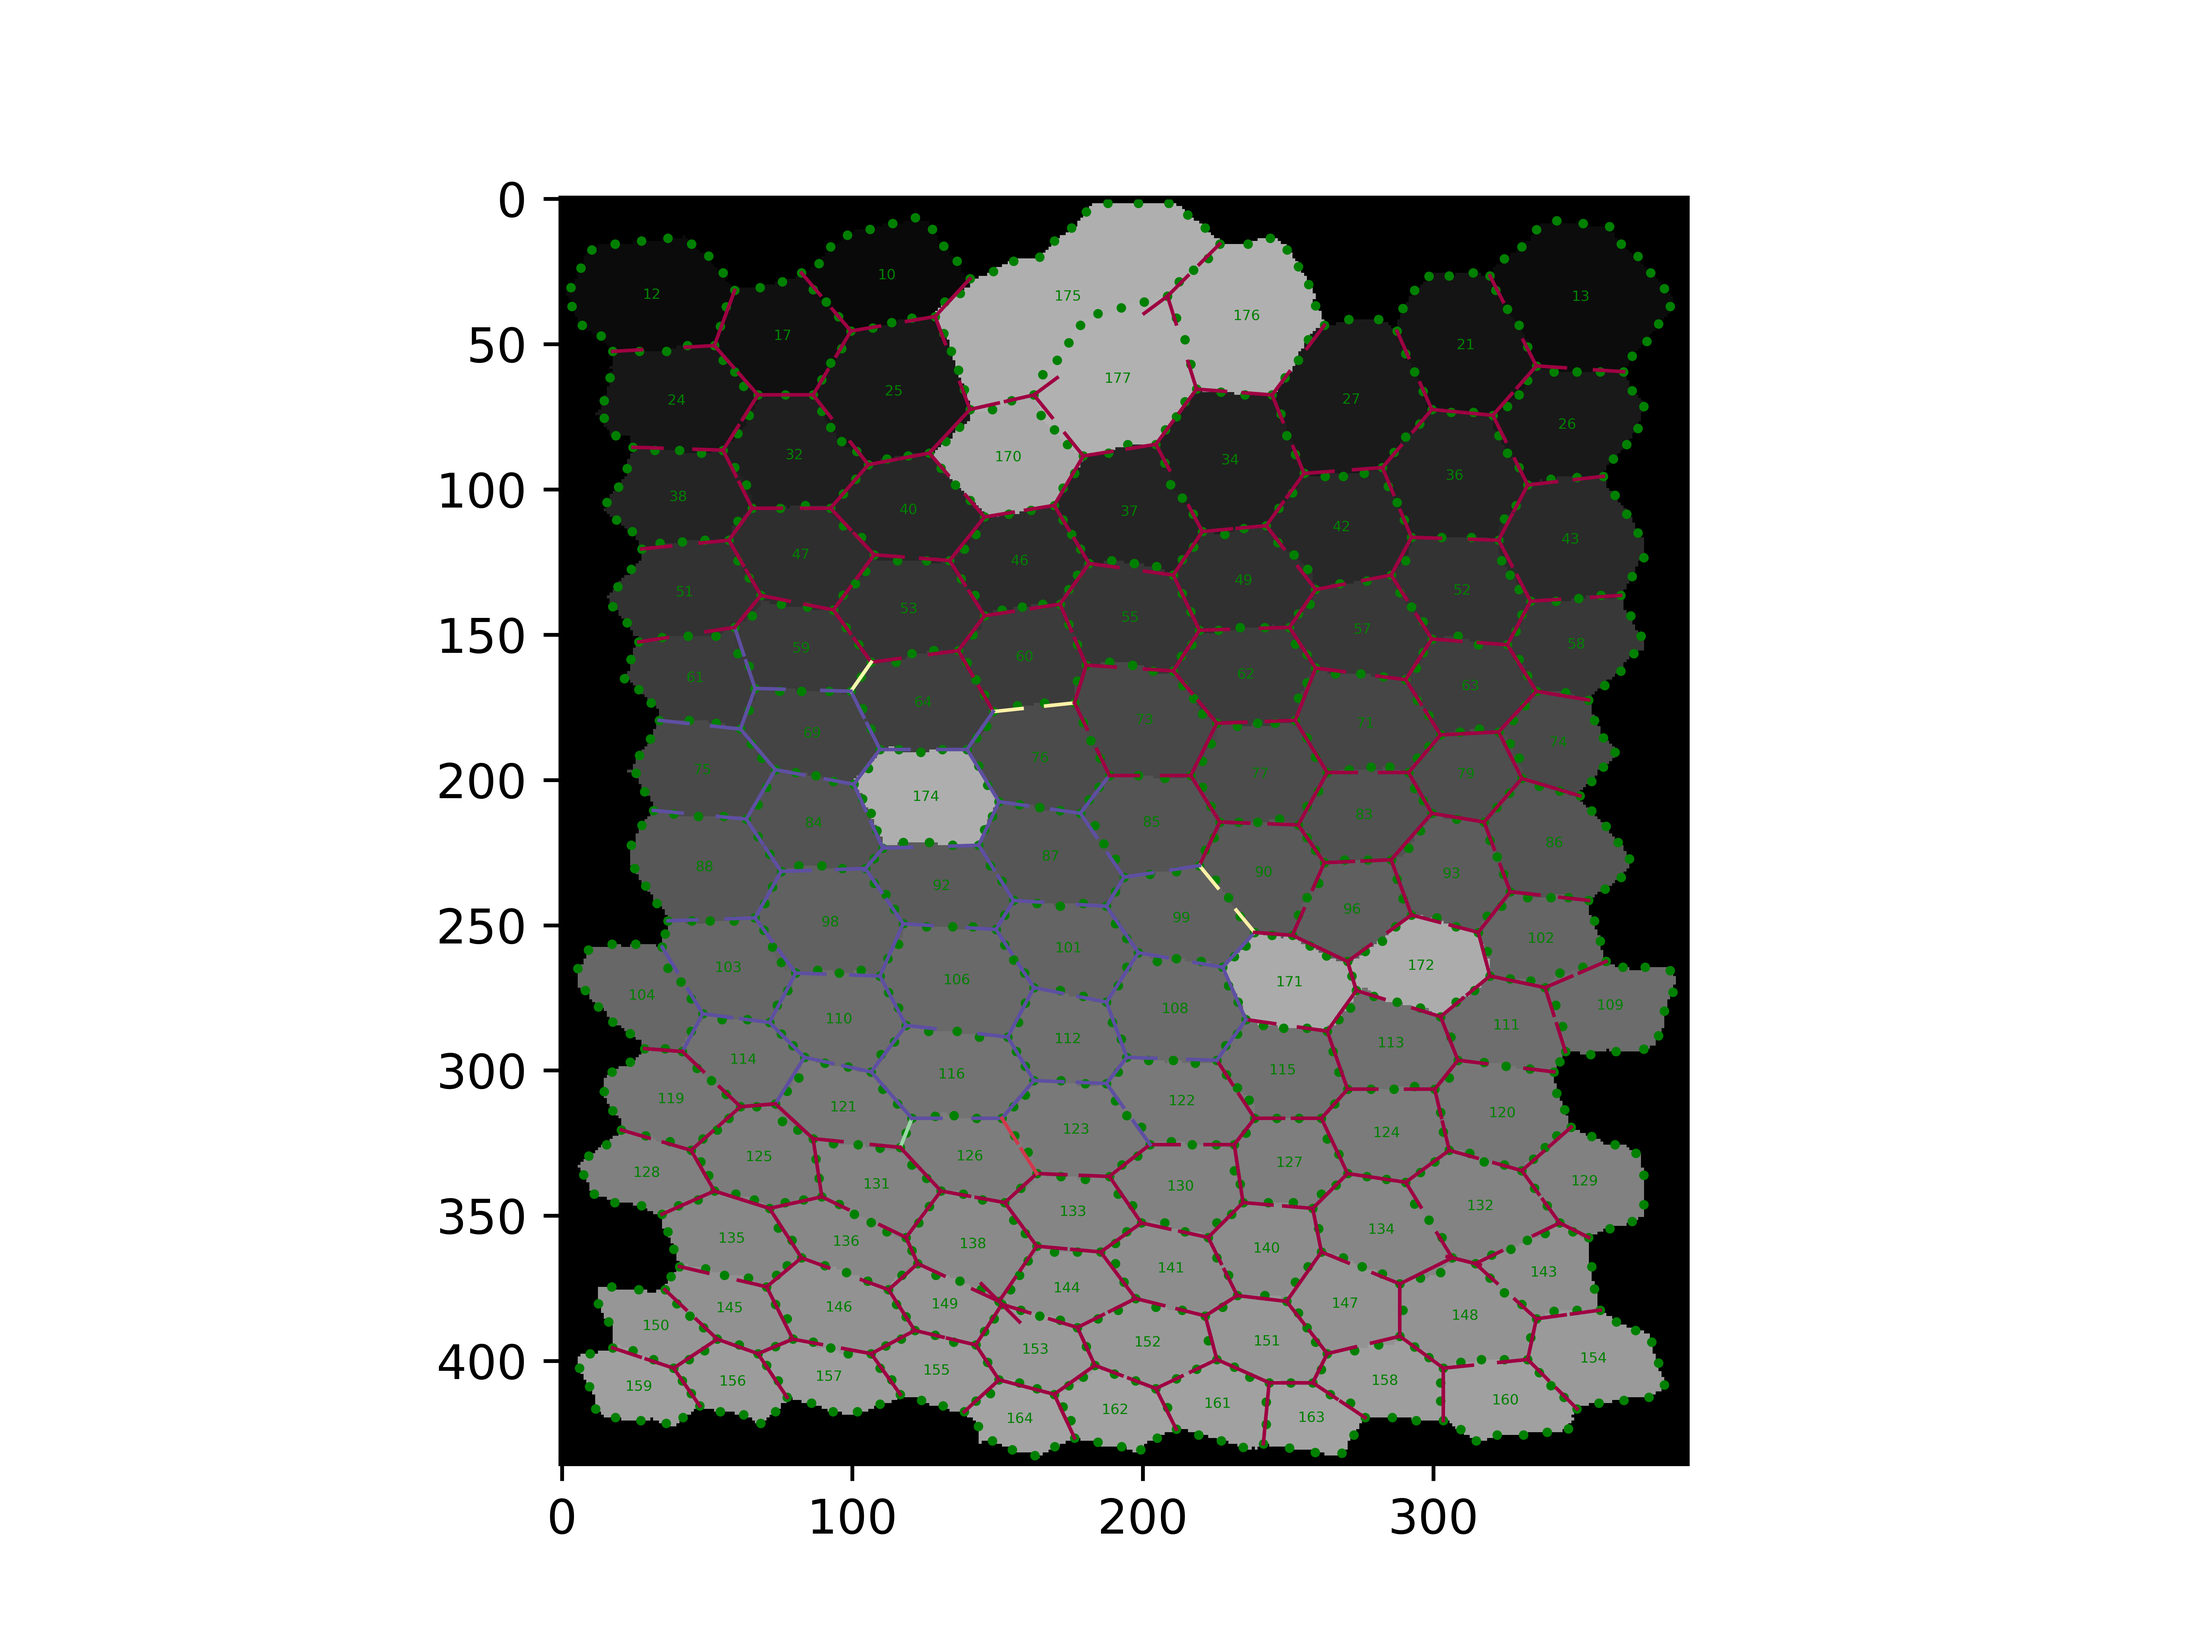
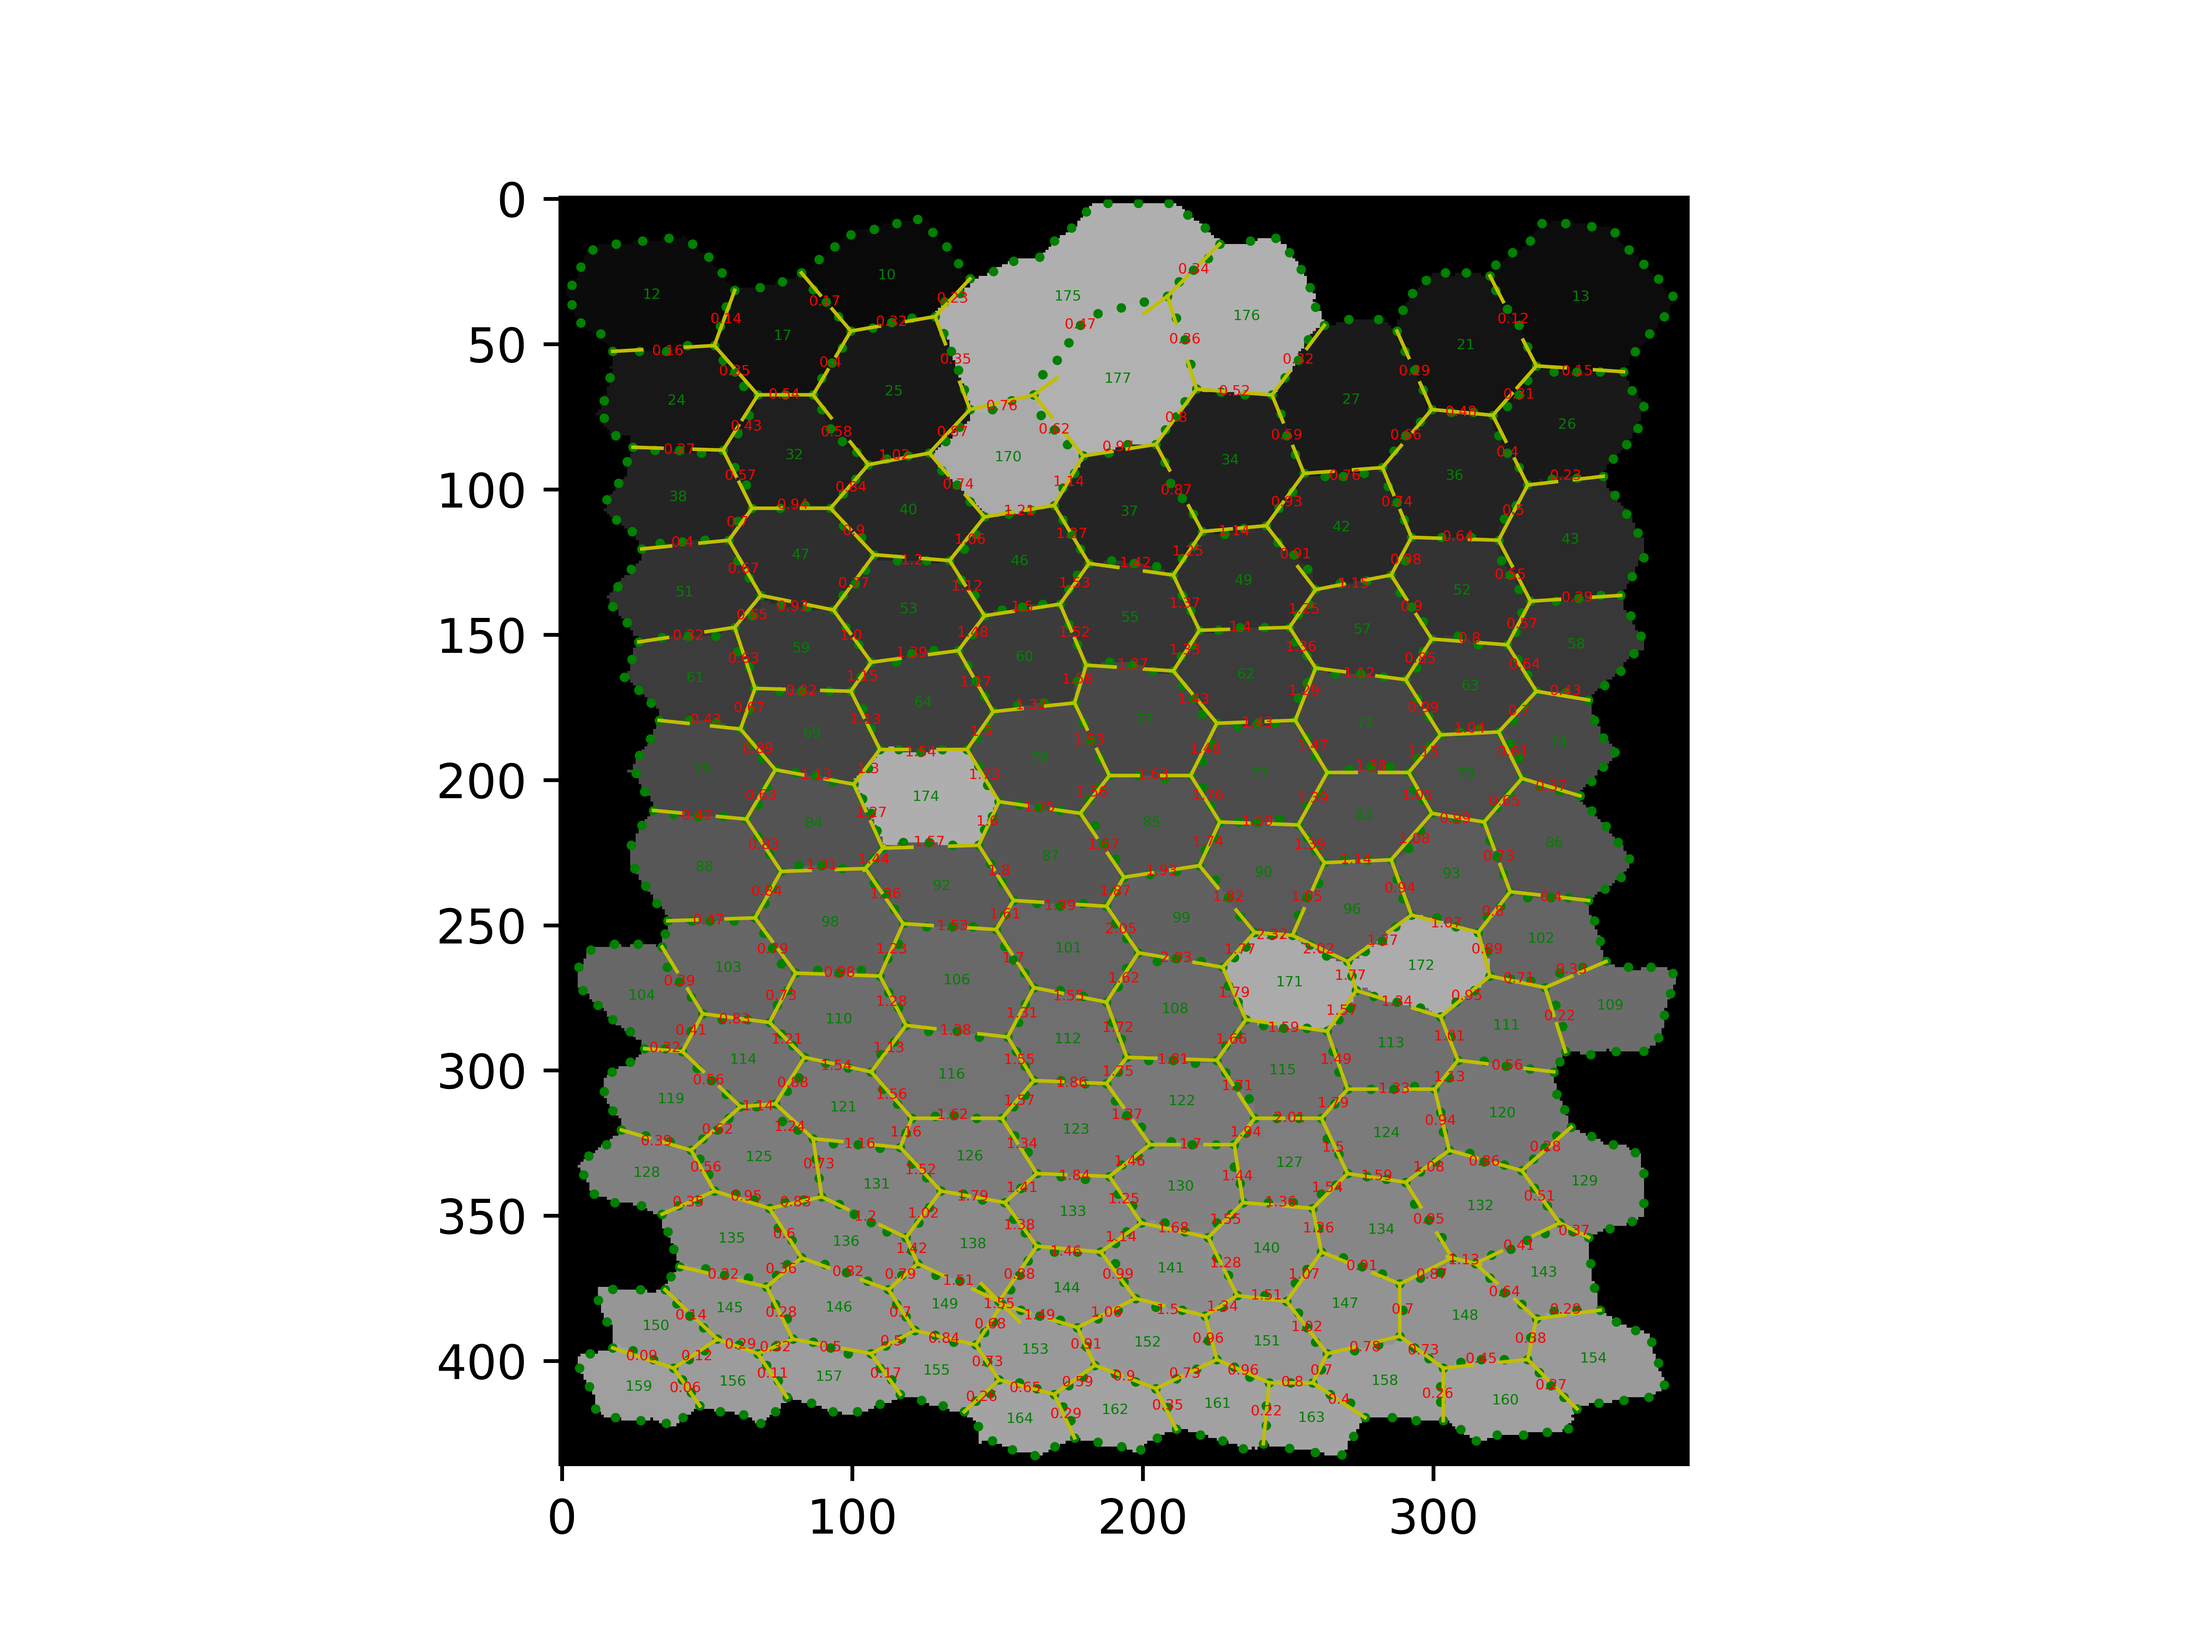
added ssr and alternate methods of calculating tension

diff --git a/pycellfit/mesh.py b/pycellfit/mesh.py
@@ -1,6 +1,5 @@
 import math
 import statistics
-import sys
 
 import matplotlib.pyplot as plt
 import numpy as np
@@ -218,7 +217,7 @@ class Mesh:
         bottom = np.concatenate((bottom_left, bottom_right), axis=1)
         big_matrix = np.concatenate((top, bottom), axis=0)
         zero = np.zeros((n_tensions + 1, 1))
-        zero[261][0] = 261
+        zero[n_tensions][0] = n_tensions
         print(big_matrix.shape, zero.shape)
         y = np.linalg.lstsq(big_matrix, zero, rcond=None)
         x = np.linalg.solve(big_matrix, zero)
@@ -231,11 +230,93 @@ class Mesh:
             tension_magnitude = y[0][tension_label]
             for edge in self.edges:
                 if edge._label == edge_label:
-                    edge.tension_magnitude = tension_magnitude
-        np.savetxt(sys.stdout, y[0], fmt="%.3f")
-        plt.figure()
-        plt.hist(y[0])
-        plt.show()
+                    edge.tension_magnitude = np.asscalar(tension_magnitude)
+        # np.savetxt(sys.stdout, y[0], fmt="%.3f")
+
+    def solve_tensions_new(self):
+        edge_label_to_tension_label_dict = {}  # each entry is edge label: tension_label
+        n_tensions = 0
+        for edge in self.edges:
+            if not edge.outside(self.background_label):
+                edge.tension_label = n_tensions
+                edge_label_to_tension_label_dict[edge._label] = n_tensions
+                edge.map_unit_vectors_to_junctions()
+                n_tensions += 1
+        gy_matrix = np.zeros((2 * self.number_of_triple_junctions, n_tensions))
+        for junction in self.junctions:
+            for edge_label in junction.x_unit_vectors_dict:
+                tension_label = edge_label_to_tension_label_dict[edge_label]
+                gy_matrix[junction._label][tension_label] = junction.x_unit_vectors_dict[edge_label]
+            for edge_label in junction.y_unit_vectors_dict:
+                tension_label = edge_label_to_tension_label_dict[edge_label]
+                gy_matrix[junction._label + self.number_of_junctions][tension_label] = junction.y_unit_vectors_dict[
+                    edge_label]
+
+        zero = np.zeros((n_tensions, 1))
+
+        print(gy_matrix.shape)
+        print(gy_matrix.T.shape)
+        print(np.linalg.inv(gy_matrix.dot(gy_matrix.T)).shape)
+        print(zero.shape)
+
+        gamma = np.linalg.inv(gy_matrix.T * gy_matrix) * gy_matrix.T * zero
+        print(gamma.shape)
+        print(np.mean(gamma))
+        print(gamma)
+
+    def solve_tensions_new2(self):
+        edge_label_to_tension_label_dict = {}  # each entry is edge label: tension_label
+        n_tensions = 0
+        for edge in self.edges:
+            if not edge.outside(self.background_label):
+                edge.tension_label = n_tensions
+                edge_label_to_tension_label_dict[edge._label] = n_tensions
+                edge.map_unit_vectors_to_junctions()
+                n_tensions += 1
+        gy_matrix = np.zeros((2 * self.number_of_triple_junctions, n_tensions))
+        for junction in self.junctions:
+            for edge_label in junction.x_unit_vectors_dict:
+                tension_label = edge_label_to_tension_label_dict[edge_label]
+                gy_matrix[junction._label][tension_label] = junction.x_unit_vectors_dict[edge_label]
+            for edge_label in junction.y_unit_vectors_dict:
+                tension_label = edge_label_to_tension_label_dict[edge_label]
+                gy_matrix[junction._label + self.number_of_junctions][tension_label] = junction.y_unit_vectors_dict[
+                    edge_label]
+        print(n_tensions)
+        print(gy_matrix.shape)
+        top_left = np.matmul(gy_matrix.transpose(), gy_matrix)
+        bottom_left = np.full((1, np.shape(top_left)[1]), 1)
+        top_right = bottom_left.transpose()
+        top = np.concatenate((top_left, top_right), axis=1)
+        bottom_right = np.zeros((1, top.shape[1] - bottom_left.shape[1]))
+        bottom = np.concatenate((bottom_left, bottom_right), axis=1)
+        big_matrix = np.concatenate((top, bottom), axis=0)
+        zero = np.zeros((n_tensions + 1, 1))
+        zero[n_tensions][0] = n_tensions
+        print(big_matrix.shape, zero.shape)
+        y = np.linalg.lstsq(big_matrix, zero, rcond=None)
+        x = np.linalg.solve(big_matrix, zero)
+        print(np.mean(x))
+        # print(y[0])
+        print(np.mean(y[0]))
+        print('lagrange multiplier: {}'.format(y[0][n_tensions]))
+        gamma_star = y[0]
+        # remove last row
+        gamma_star = gamma_star[:-1, :]
+        # print('mean_tension: {}, min_tension: {}, max_tension: {}'.format(np.mean(gamma_star), np.min(gamma_star),
+        # np.max(gamma_star)))
+        print("shape of gamma", gamma_star.shape)
+        for alpha in range(0, 2):
+            gamma = alpha * (gamma_star - 1) + 1
+            print(gy_matrix.shape, gamma.shape)
+            net_forces = np.matmul(gy_matrix, gamma)
+            print(net_forces.shape)
+
+            ssr = np.sum(net_forces ** 2)
+            print('alpha: {}, mean_tension: {}, min_tension: {}, max_tension: {}, ssr: {} '.format(alpha,
+                                                                                                   np.mean(gamma),
+                                                                                                   np.min(gamma),
+                                                                                                   np.max(gamma), ssr))
 
     def plot_tensions(self):
         max_tension = 2

diff --git a/tutorials/intro/quickstart.py b/tutorials/intro/quickstart.py
@@ -10,6 +10,7 @@ def main():
     # STEP 1: Reading in segmented image
     # filename = 'CreateMesh_UniformPressureNoAA.tif'
     filename = 'Segment_0_000.tif'
+    # filename = 'CellFIT_MeshOfHexagonalCells030.tif'
     # load input image as a numpy ndarray
     array_of_pixels = read_segmented_image(filename)
     print(array_of_pixels.shape)
@@ -38,6 +39,7 @@ def main():
 
     # STEP 4: Solve Tensions
     hex_mesh.solve_tensions()
+    hex_mesh.solve_tensions_new2()
 
     # for e in hex_mesh.edges:
     #     if not e.outside(0):
@@ -70,9 +72,7 @@ def main():
     #         edge.plot_circle()
     #
     # # show tangent vectors
-    # for edge in hex_mesh.edges:
-    #     if not edge.outside(hex_mesh.background_label):
-    #         edge.plot_tangent()
+
     #
     # plt.savefig('fig.png', dpi=1000)
     plt.figure()
@@ -81,7 +81,11 @@ def main():
         cell.plot()
     hex_mesh.plot()
 
-    hex_mesh.plot_tensions()
+    for edge in hex_mesh.edges:
+        if not edge.outside(hex_mesh.background_label):
+            edge.plot_tangent()
+
+    # hex_mesh.plot_tensions()
 
     # for junction in hex_mesh.junctions:
     #     junction.plot()

diff --git a/pycellfit/edge.py b/pycellfit/edge.py
@@ -403,7 +403,7 @@ class Edge:
         self.end_node.x_unit_vectors_dict[self._label] = math.cos(angle)
         self.end_node.y_unit_vectors_dict[self._label] = math.sin(angle)
 
-    def plot_tangent(self, c='y'):
+    def plot_tangent(self, c='y', ):
         angle = self.start_tangent_angle()
 
         plt.plot([self.start_node.x, self.start_node.x + 10 * math.cos(angle)], [self.start_node.y,
@@ -414,7 +414,9 @@ class Edge:
         plt.plot([self.end_node.x, self.end_node.x + 10 * math.cos(angle)], [self.end_node.y,
                                                                              self.end_node.y + 10 * math.sin(
                                                                                  angle)], c=c, lw=0.75)
-
+        plt.text(self.location[0], self.location[1], str(round(self.tension_magnitude, 2)), color='red',
+                 fontsize=3,
+                 horizontalalignment='center', verticalalignment='center')
     def plot_circle(self):
         xc, yc = self._center
         start_point = self.start_node.coordinates
